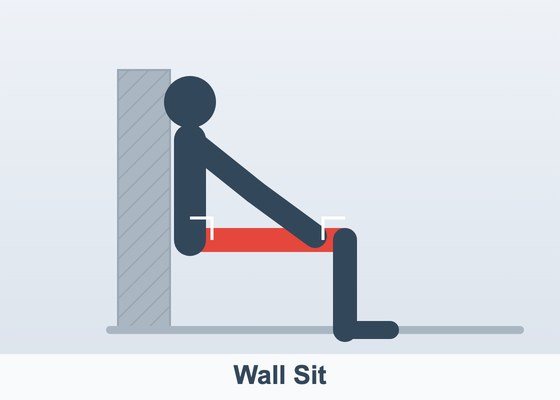
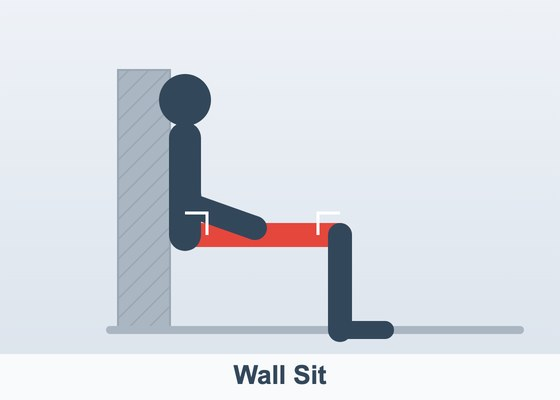
Fix split squat and wall sit images
- Wall sit: redraw with a clear vertical back flush to the wall and
  hands resting on the thighs (the previous version's diagonal arm read
  as a forward lean).
- Split squat: dedicated illustration (split stance, front knee ~90 over
  the ankle, back knee lowered) instead of the walking-lunge photo, which
  showed a mid-stride walk.
- Bump SW cache to v8.

diff --git a/index.html b/index.html
@@ -1687,9 +1687,9 @@
             // Wall sit (illustrazione custom: nessuna foto fedele nel DB)
             'wall sit': 'CUSTOM:assets/wall-sit.jpg',
 
-            // Split squat / affondo statico (deve vincere su 'squat')
-            'split squat': 'Bodyweight_Walking_Lunge',
-            'bulgarian': 'Bodyweight_Walking_Lunge',
+            // Split squat / affondo statico (illustrazione custom; deve vincere su 'squat')
+            'split squat': 'CUSTOM:assets/split-squat.jpg',
+            'bulgarian': 'CUSTOM:assets/split-squat.jpg',
 
             // Affondi / lunges
             'walking lunge': 'Bodyweight_Walking_Lunge',

diff --git a/sw.js b/sw.js
@@ -1,4 +1,4 @@
-const CACHE_NAME = 'patrick-workout-v7';
+const CACHE_NAME = 'patrick-workout-v8';
 const urlsToCache = [
   '/',
   '/index.html',
